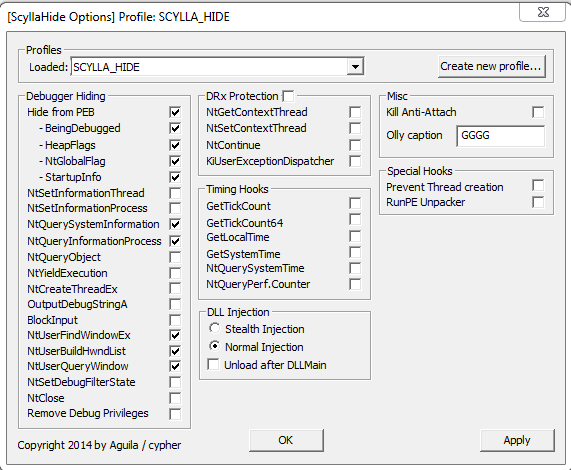
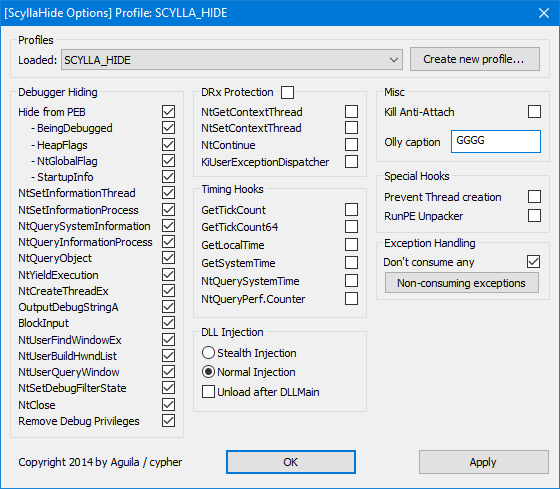
Update documentation PDF sources
- Update... date
- Update version number to 1.4. This is not a real version update, but the title incorrectly said v1.3
- Update link to TitanHide repository
- Update screenshots because they were years out of date (using the new Windows 10 dark theme so it doesn't look like this is a plugin for Windows 95)
- Compress screenshots with PNGOUT magic so they are now half their original filesize, making the resulting PDF 30% smaller while containing 5% more content. Ken Silverman be praised
- Change claim of support for "Hex-Rays IDA v6+" to "Hex-Rays IDA v6" to not give the impression that IDA v7.x is supported
- Document the new "nowait" flag for the CLI injector added in efd8002
- Add mrexodia and Mattiwatti to developer contact information section
- Misc. cleanup: remove empty sections, force early page breaks in places where there were unfortunate <title><page break><content> scenarios

diff --git a/Documentation/ScyllaHideDocumentation.tex b/Documentation/ScyllaHideDocumentation.tex
@@ -37,7 +37,7 @@
 
 \title{ScyllaHide v1.4 - Documentation}
 \author{}
-\date{2016-10-02}
+\date{2018-11-11}
 
 \begin{document}
 
@@ -54,13 +54,13 @@
 
 \section{Description}
 
-ScyllaHide is an advanced open-source x64/x86 usermode Anti-Anti-Debug library. It hooks various functions in usermode to hide debugging. This tool is intended to stay in usermode (ring3). If you need kernelmode (ring0) Anti-Anti-Debug please see \href{https://bitbucket.org/mrexodia/titanhide}{TitanHide}. ScyllaHide hooks as stealth as possible in usermode and the goal is to not interfere any other functionality.
+ScyllaHide is an advanced open-source x64/x86 usermode Anti-Anti-Debug library. It hooks various functions in usermode to hide debugging. This tool is intended to stay in usermode (ring3). If you need kernelmode (ring0) Anti-Anti-Debug please see \href{https://github.com/mrexodia/TitanHide}{TitanHide}. ScyllaHide hooks as stealth as possible in usermode and the goal is to not interfere any other functionality.
 
 ScyllaHide supports various debuggers with plugins:
 \begin{itemize}
 \item OllyDbg v1 and v2 \url{http://www.ollydbg.de}
 \item x64dbg \url{http://x64dbg.com} or \url{https://github.com/x64dbg/x64dbg}
-\item Hex-Rays IDA v6+ \url{https://www.hex-rays.com/products/ida}
+\item Hex-Rays IDA v6 \url{https://www.hex-rays.com/products/ida}
 \item TitanEngine v2 \url{https://bitbucket.org/mrexodia/titanengine-update} and \url{http://www.reversinglabs.com/open-source/titanengine.html}
 \end{itemize}
 
@@ -73,10 +73,14 @@ Please note: ScyllaHide is not limited to these debuggers. You can use the stand
 The NtApiCollection.ini can be generated for your operating system by using the appropriate NtApiTool.exe in the release folder. Copy the generated NtApiCollection.ini to your plugin directory.
 
 \subsubsection{Standalone (debugger-independent)}
-InjectorCLI.exe "process name" "HookLibrary.dll path"
+InjectorCLI.exe "process name" "HookLibrary.dll path" [nowait]
+
+InjectorCLI.exe pid:\textit{process ID} "HookLibrary.dll path" [nowait]
 
 For example:
 InjectorCLI.exe crackme.exe \path{C:\HookLibrary.dll}
+
+The injector waits for a keystroke after injection by default. You can modify this behaviour by passing "nowait" (without quotes) as the last parameter.
 
 \subsubsection{OllyDbg v1}
 Copy scylla\_hide.ini, NtApiCollection.ini, HookLibraryx86.dll and ScyllaHideOlly1.dll to your specific plugins directory.
@@ -285,7 +289,7 @@ A typical RunPE workflow:
 Use the integrated window finder to quickly select your attach target. Drag'n'Drop the bullseye/crosshair to your target window or enter the Process ID manually in decimal or hexadecimal notation.
 \begin{figure}[H]
 \centering
-\includegraphics[scale=0.8]{newattachdialog.PNG}
+\includegraphics[scale=1]{newattachdialog.PNG}
 \caption{Improved Attach Dialog}
 \end{figure}
 
@@ -328,7 +332,7 @@ Replaces the default OllyDbg "Go to Address" dialog. Now you can enter RVA and o
 
 \begin{figure}[H]
 \centering
-\includegraphics[scale=0.8]{ollyadvancedctrlg.PNG}
+\includegraphics[scale=1]{ollyadvancedctrlg.PNG}
 \caption{Advanced CTRL+G}
 \end{figure}
 
@@ -382,8 +386,14 @@ Change the OllyDbg window caption. This can be useful against e.g. FindWindow an
 \subsubsection{Server Option}
 Remote debugging is fully supported. Define the TCP port for the special IDA Server application. X64 debugging requires remote debugging, because IDA (64-bit) is a 32-bit application.
 
-\subsection{x64dbg Specific}
-\subsection{TitanEngine Specific}
+% Matti: commented out because these sections were empty.
+% Uncomment these if there is x64dbg or TE-specific info to add
+%\subsection{x64dbg Specific}
+%\subsection{TitanEngine Specific}
+
+% Matti: force page break here because the section title was on a different page than the rest
+\pagebreak
+
 \section{Advanced Information}
 \subsection{Nt* APIs from user32.dll}
 
@@ -461,7 +471,24 @@ The error "NT APIs missing" appears, how to solve it?
 \item \url{https://forum.tuts4you.com/user/77269-cypher/}
 \item \url{https://forum.exetools.com/member.php?u=36610}
 \end{itemize}
+
+\textbf{mrexodia}
+\begin{itemize}
+\item \url{https://github.com/mrexodia/}
+\item \url{https://bitbucket.org/mrexodia/}
+\item \url{https://forum.tuts4you.com/profile/54652-mrexodia/}
+\end{itemize}
+
+\textbf{Mattiwatti}
+\begin{itemize}
+\item \url{https://github.com/Mattiwatti/}
+\item \url{https://bitbucket.org/Mattiwatti/}
+\item \url{https://forum.tuts4you.com/profile/93562-mattiwatti/}
+\end{itemize}
 \end{center}
+
+% Matti: force page break here because the section title was on a different page than the rest
+\pagebreak
 
 \section{Version History}
 
